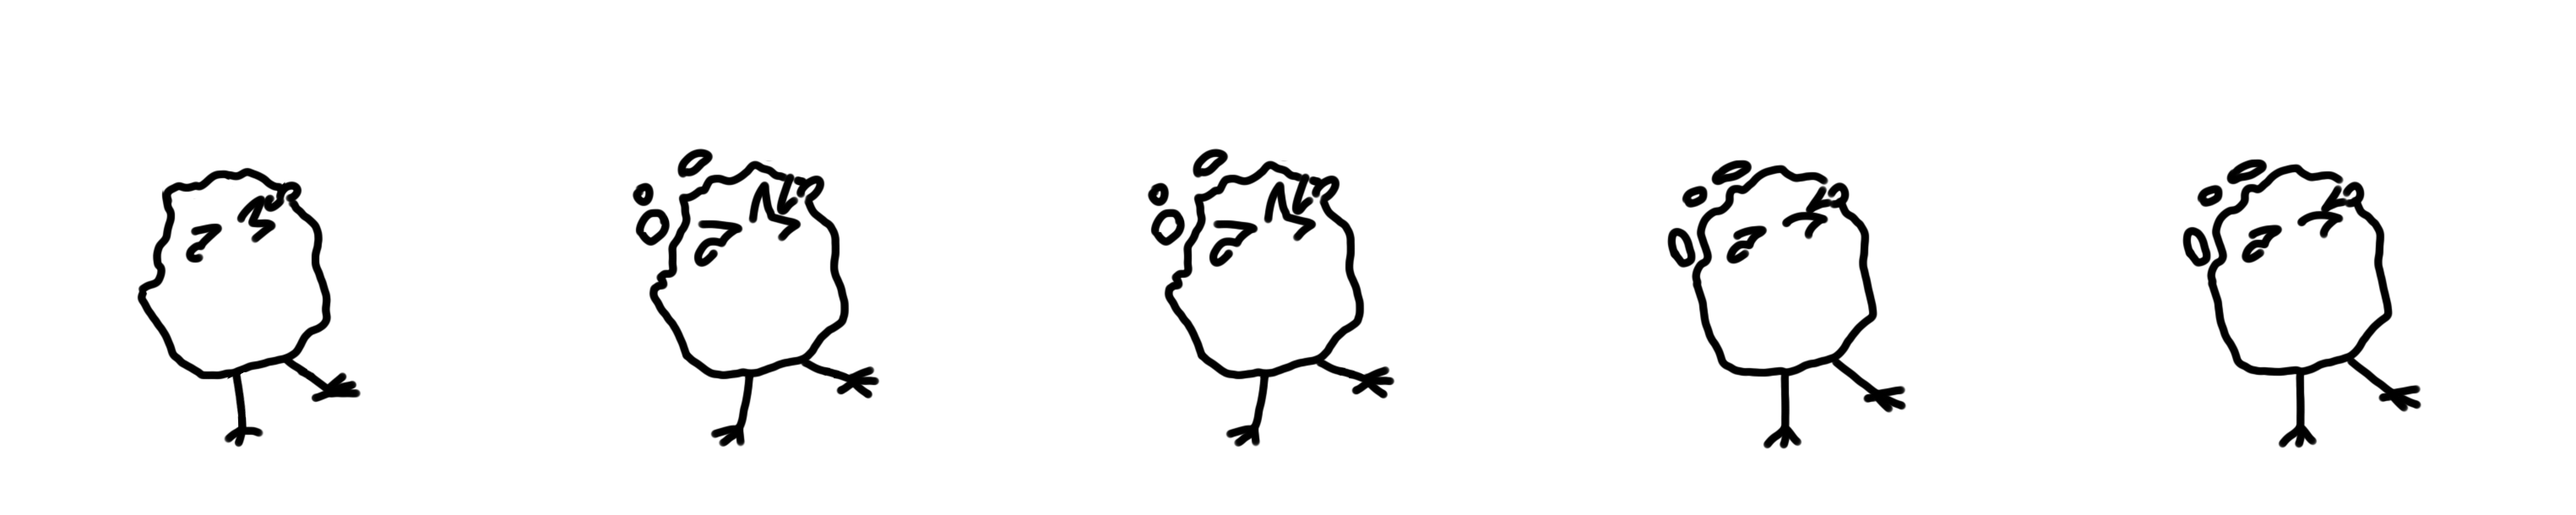
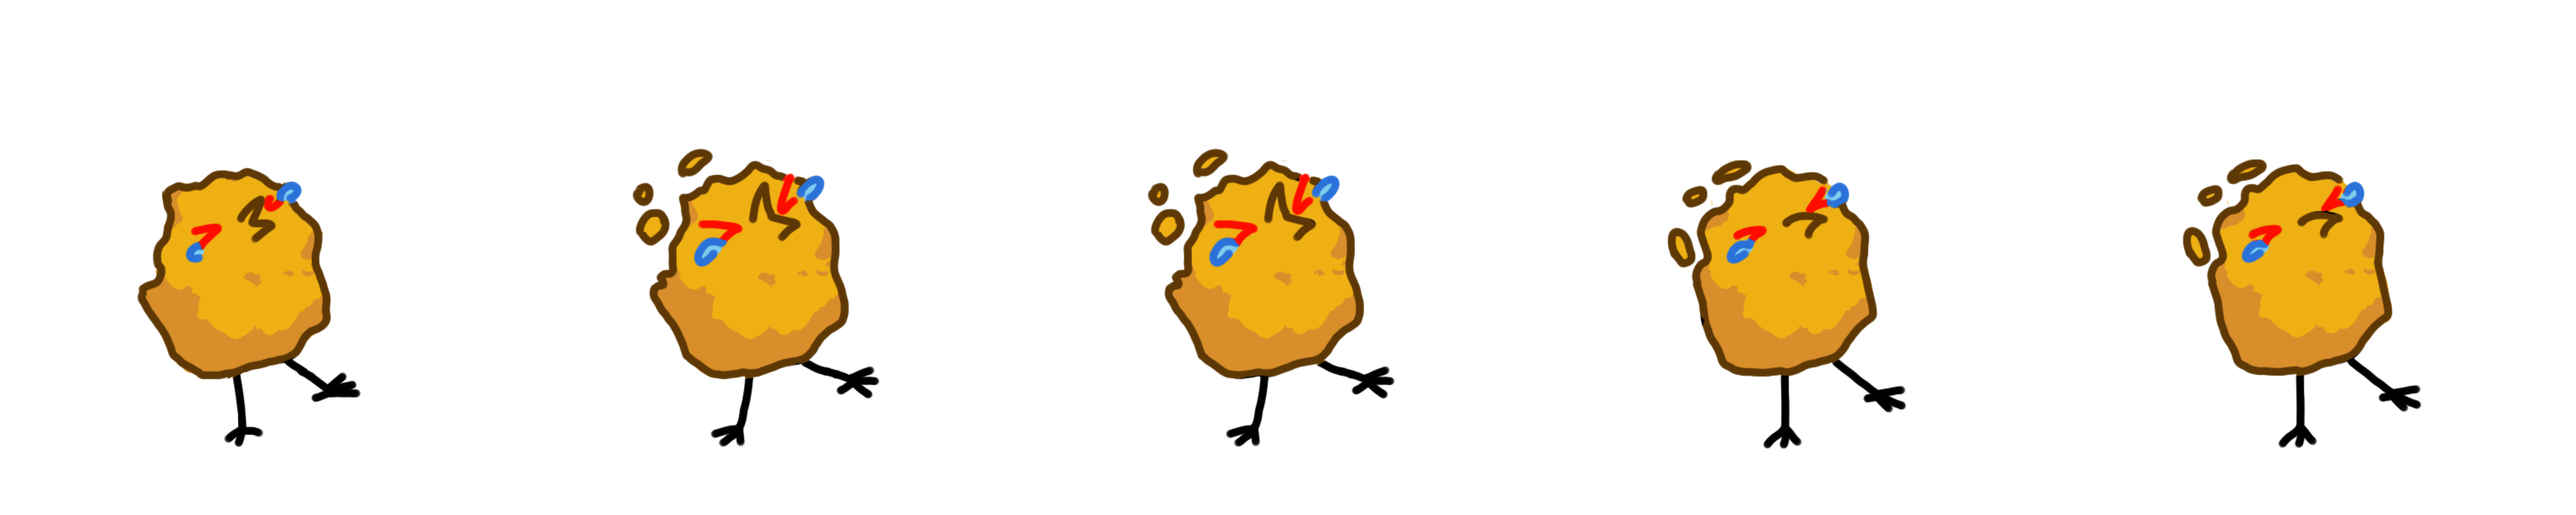
Colored Animations for hot chick and nugget hurt animation added

diff --git a/Alpha/core/src/code/game/models/Chef.java b/Alpha/core/src/code/game/models/Chef.java
@@ -663,7 +663,8 @@ public class Chef extends GameObject implements ChefInterface {
 	 */
 	public void draw(GameCanvas canvas) {
 		float effect = faceRight ? 1.0f : -1.0f;
-
+		float yScaleShift = 0.5f;
+		float xScaleShift = 0.5f;
 		if (isStunned()) {
 			hurt_animator.setFrame((int) animeframe);
 			canvas.draw(hurt_animator, doubleDamage ? Color.FIREBRICK : Color.WHITE, origin.x, origin.y, getX() * drawScale.x, getY() * drawScale.y + 25, getAngle(), effect/4, 0.25f);
